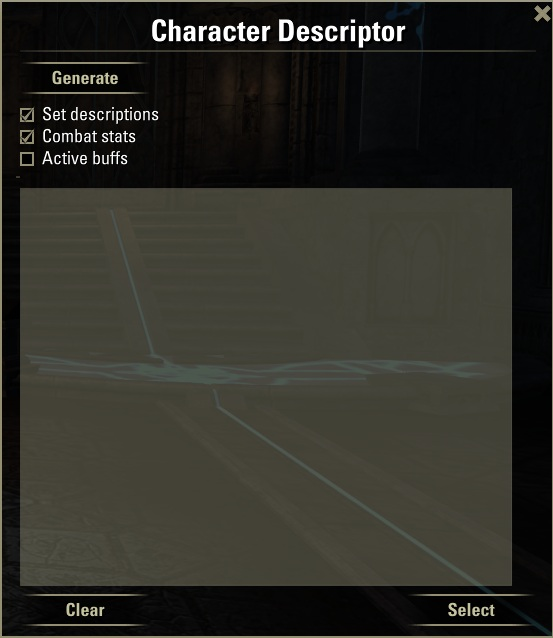
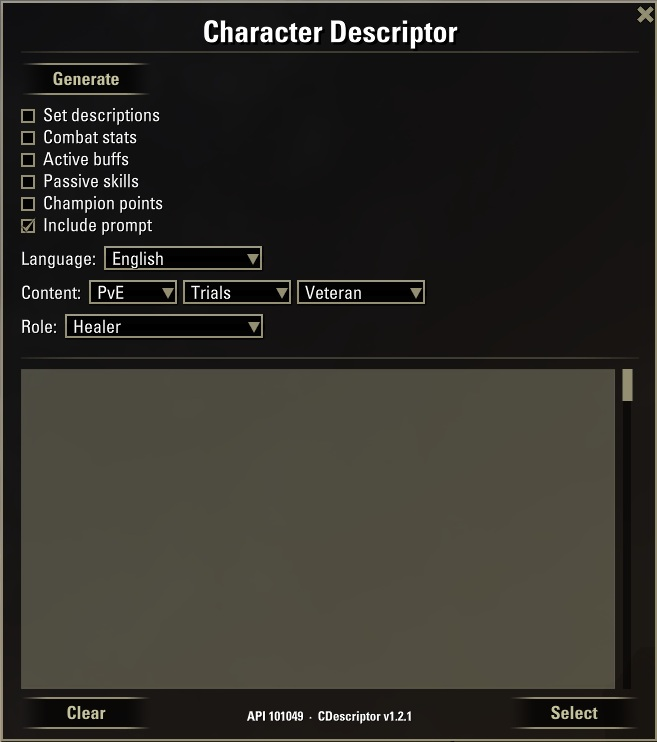
feat: add changelog and enhance README with new features and AI assistance

Changed region(s): [[0.0, 0.0, 1.0, 1.0]]

diff --git a/README.md b/README.md
@@ -5,54 +5,88 @@
 ![ESO API](https://img.shields.io/badge/ESO%20API-101049-orange)
 ![No dependencies](https://img.shields.io/badge/dependencies-none-brightgreen)
 ![License](https://img.shields.io/badge/license-MIT-green)
+![AI Assisted](https://img.shields.io/badge/AI%20Assisted-Claude%20by%20Anthropic-D97757?logo=anthropic&logoColor=white)
 
-A small Elder Scrolls Online addon that exports your character build as JSON, ready to paste into an LLM, a spreadsheet, or wherever you need it.
+A small Elder Scrolls Online addon that exports your character build as structured JSON — ready to paste into an LLM, a spreadsheet, or anywhere you need it.
 
-## What it does
+---
 
-Opens a window with a text box containing a JSON snapshot of your current character:
+## What it exports
 
-- **Character** — name, class, race, level, champion points
-- **Skills** — both action bars, including ultimate; scribing skills include their active scripts (a/b/c) with descriptions
+The output always includes:
+
+- **Character** — name, class, race, level, champion point total
+- **Skills** — both action bars including ultimate; scribing skills include their active scripts (a/b/c) with name and description
 - **Gear** — each slot with item name, set, quality, trait, and enchant
-- **Set descriptions** *(optional)* — the full text of each equipped set bonus
-- **Combat stats** *(optional)* — max health/magicka/stamina, regen, spell damage, penetration, resistances, and more
-- **Active buffs** *(optional)* — all buffs currently on your character
 
-The three optional sections are toggled with checkboxes in the window.
+Five additional sections are optional, each controlled by a checkbox:
+
+| Checkbox | Contents |
+|---|---|
+| Set descriptions | Full bonus text for each equipped set, with piece count |
+| Combat stats | Max resources, regen, spell/weapon damage, penetration, resistances |
+| Active buffs | All buffs currently applied to your character |
+| Passive skills | Learned vs. total passives per skill line |
+| Champion points | Slottable and passive CP investments per discipline |
+
+![includes](doc/assets/Includes.jpg)
+
+---
+
+## Dynamic Prompt
+
+Enable the **Include Prompt** checkbox to attach a structured LLM prompt above the JSON output. Configure:
+
+- **Language** — the language you want the analysis written in
+- **Content type** — PvE (Solo / Dungeons / Trials) or PvP (Cyrodiil / Imperial City / Battlegrounds), with difficulty for group content
+- **Role** — Full analysis, DPS, Tank, Healer, or Hybrid
+
+The result is a **ready-to-paste** block:
+
+ **[PROMPT]** + **[JSON]**
+ 
+ one copy action.
+
+---
+
+## Screenshots
+
+![Window empty](doc/assets/empty_1.jpg)
+![Window filled](doc/assets/filled_2.jpg)
+
+---
 
 ## Usage
+
 1. Log in to your character.
-2. Type `/cdescriptor` or use the keybinding you set in **Options → Keybindings → CDescriptor**.
-3. Tick the sections you want, then click **Generate**.
-4. Click **Select** — the text is selected. Press **Ctrl+C**.
-5. Paste anywhere.
+2. Type `/cdescriptor` or use the keybinding you assigned in **Options → Keybindings → CDescriptor**.
+3. Tick the sections you want included.
+4. Click **Generate**.
+5. Click **Select** — the full output is highlighted. Press **Ctrl+C**.
+6. Paste anywhere.
 
-![Empty](doc/assets/empty_1.jpg)
-![filled](doc/assets/filled_2.jpg)
-
+---
 
 ## Installation
 
-1. Download and extract the folder.
-2. Place `CDescriptor/` inside your `Elder Scrolls Online/live/AddOns/` directory.
+1. Download and extract the zip.
+2. Place the `CDescriptor/` folder inside your `Elder Scrolls Online/live/AddOns/` directory.
 3. Enable it in the **AddOns** menu on the character select screen.
 
-## Notes
+No library dependencies required.
 
-- No library dependencies.
-- Settings (checkbox states, window position) are saved per account.
-- The output is plain JSON — no markup, no metadata.
+---
 
 ## Future ideas
 
-Sections that could become additional checkboxes, subject to what the ESO API actually exposes:
+Sections that could become additional checkboxes, subject to what the ESO API exposes:
 
-- **PVP**: Alliance War rank and points
-- **Crafting professions** — skill level in each tradeskill: Blacksmithing, Clothing, Woodworking, Enchanting, Alchemy, etc.
-- **Achievements**: feasible but complex, we will see.
-- **Output formats**: currently JSON only. _YAML_ and _Markdown_ are natural candidates. _YAML_ is more human-readable I gues, _Markdown_ could render nicely.
+- **PvP rank** — Alliance War rank and points
+- **Crafting professions** — skill level per tradeskill
+- **Output formats** — YAML or Markdown as alternatives to JSON
 
-Ideas that sound good but need investigation first: mount stats, companion info, housing.
+Contributions welcome.
 
-Contributions welcome!
+---
+
+> Developed with AI assistance (Claude by Anthropic).

diff --git a/CHANGELOG.md b/CHANGELOG.md
@@ -1,0 +1,59 @@
+# Changelog
+
+All notable changes to this project will be documented in this file.
+
+The format is based on [Keep a Changelog](https://keepachangelog.com/en/1.1.0/),
+and this project adheres to [Semantic Versioning](https://semver.org/spec/v2.0.0.html).
+
+## [Unreleased]
+
+## [1.2.1] - 2026-04-19
+
+### Added
+- **Dynamic Prompt** — inline panel with language, content type (PvE/PvP with subcategory and difficulty), and role selectors. When enabled, a structured prompt is prepended to the JSON output, ready to paste directly into an LLM.
+- **Auto-detected game version** — removed the manual patch input field; the API version is now read automatically via `GetAPIVersion()` and displayed in the window footer alongside the addon version.
+- **Passive Skills** — new optional checkbox that exports a summary of learned vs. total passives per skill line.
+- **Champion Points** — new optional checkbox that exports slottable and passive CP investments per discipline.
+- ZOS licensing disclaimer added to manifest per ESOUI community requirements.
+
+### Changed
+- Gear JSON key order standardized across all slot types: `item → set → [weight] → quality → trait → enchant`.
+- Perfected set handling: when both a base set and its perfected variant are equipped simultaneously, only the perfected entry is shown, with an accurate count of perfected pieces.
+- SavedVariables migrated from a raw global to `ZO_SavedVars:NewAccountWide` — settings are now correctly scoped per account and server (EU/NA/PTS).
+- Copy confirmation sound updated to the Group Ready Check notification sound.
+
+### Fixed
+- Prompt panel anchor conflict that rendered it on top of the Generate button and checkboxes instead of below them.
+- Include Prompt checkbox was silently doing nothing — root cause was using `clickedCallback` instead of `ZO_CheckButton_SetToggleFunction`.
+- Dropdown callbacks (`sub_combo_cb`, `diff_combo_cb`) were leaking into the global `_G` table; now correctly scoped as local upvalues via forward declaration.
+
+## [1.2.0] - 2026-04-19
+
+### Added
+- Passive Skills and Champion Points adapters (data extraction layer).
+- Scribing skill support: active scripts (a/b/c slots) with name and description are included inline with each skill entry.
+- Scrollbar for the output box.
+- Window resize persistence.
+
+### Changed
+- Output is now ordered using `__key_order` hints in the serializer, producing consistent field ordering across all sections.
+- ESO color markup (`|cRRGGBB...|r`) is stripped from all text fields before serialization.
+
+## [1.1.0] - 2026-04-19
+
+### Added
+- Optional sections: Combat Stats and Active Buffs, each toggled by a checkbox.
+- Keybinding support via `bindings.xml`.
+- Slash command `/cdescriptor`.
+
+### Changed
+- Gear section now distinguishes weapon, armor, and jewelry slot types.
+
+## [1.0.0] - 2026-04-18
+
+### Added
+- Initial release.
+- Exports character info, both action bars (skills + ultimate), and equipped gear as JSON.
+- Optional Set Descriptions section (equipped set bonuses with piece counts).
+- Single-click select-all for easy clipboard copy.
+- Window position saved between sessions.
